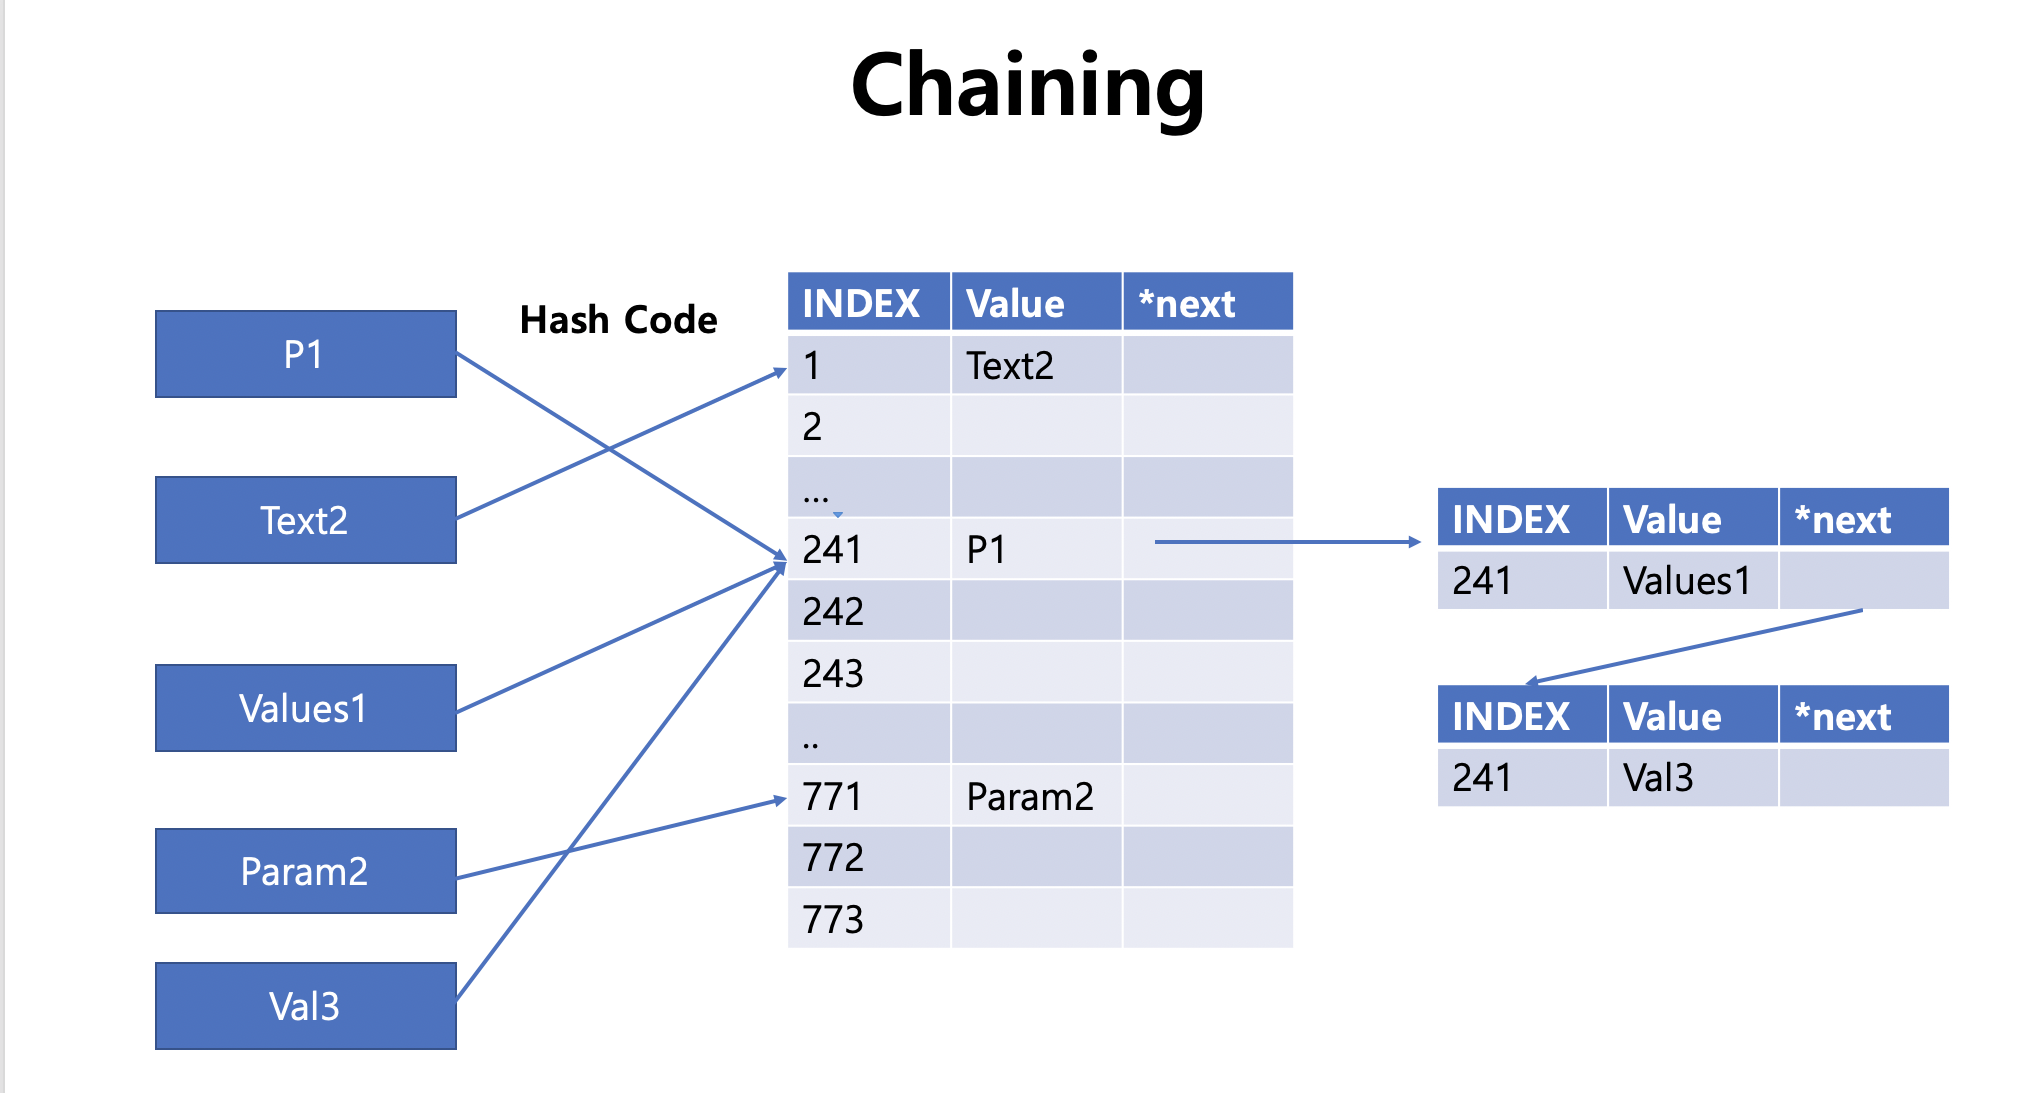
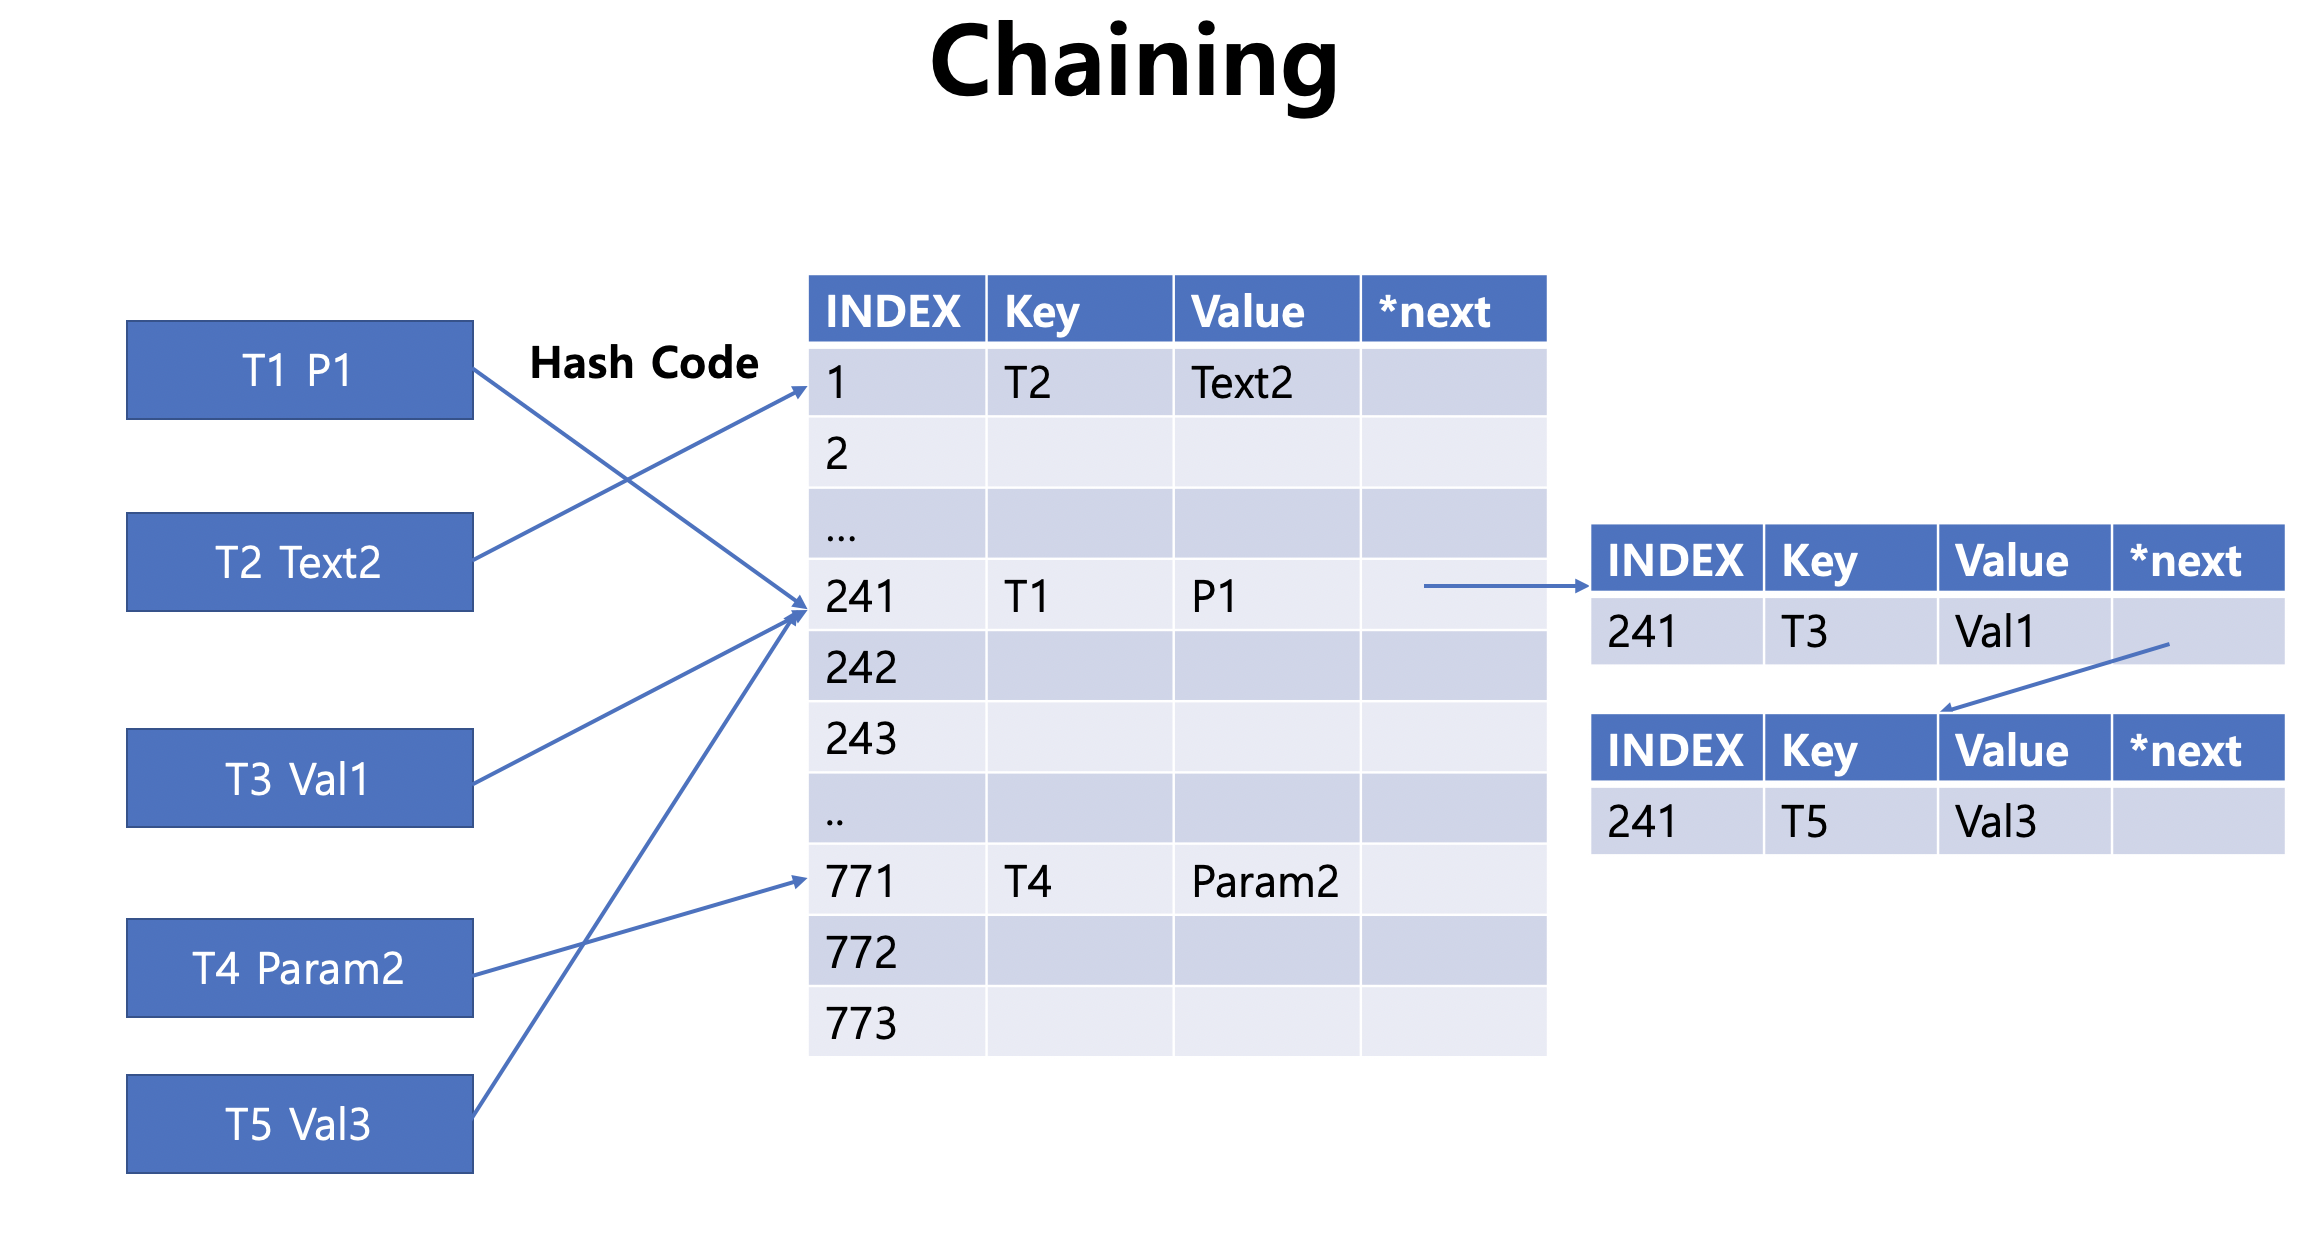
hash - open addressing

diff --git a/DataStructure/Container/Hash.md b/DataStructure/Container/Hash.md
@@ -14,13 +14,91 @@ sort: 8
 * Hash Table에서 충돌이 났을 때, 비어있는 Index로 이동하는 기법
 * 아래 예시는 충돌이 났을 때 +1을 했지만, 일반적으로 1,4,9와 같이 $$n^2$$ 이나 난수를 이용하여 충돌의 횟수를 줄임
 * 테이블의 크기는 충돌을 고려하여 전체 Key의 수보다 크게 설정
+* 연속적인 Mapping이 있으며 중간에서 삭제가 된 경우, 삭제에 의해서 검색이 안 되는건지 값이 없는 건지 확인하는 데 어려움이 있음
+  * Isdelete라는 멤버변수를 이용하여, 삭제가 된 경우와 뒤에 값이 없는 경우 구분
+
 
 ![Open_Addressing](./Img/Open_Addressing.png)
 
 **Code**
 
 ```c++
+template<typename T>
+class HashMap{
+    struct node {
+        bool isfill = false;
+        bool isdelete = false;
+        string key;
+        T value;
+    };
+    int size;
+    node* arr;
+public :
+    HashMap(int _size){
+        size = _size;
+        arr = (node*)malloc(sizeof(node)*_size);
+    }
+    ~HashMap(){
+        size = 0;
+        free(arr);
+    }
+    int hashcode(string _key){
+        int hash = 0;
+        for (int i = 0; i < _key.size(); i++) {
+            hash = (hash * 77 + 11 * _key[i]) % size;
+        }
+        return hash;
+    }
+    int get_address(int idx) {
+        idx++; // just + 1
+        if (idx == size) idx = 0;
+        return idx;
+    }
+    T get_value(string _key) {
+        int hash = hashcode(_key);
+        while((arr[hash].isfill && arr[hash].key != _key) || arr[hash].isdelete) {
+            hash = get_address(hash);
+        }
+        if (arr[hash].isfill && arr[hash].key == _key && !arr[hash].isdelete) return arr[hash].value;
+        return "Not Found Key";
+//        return -1;
+    }
+    void insert(string _key, T _value){
+        int hash = hashcode(_key);
+        while ((arr[hash].isfill && arr[hash].key != _key) || arr[hash].isdelete){
+            if (arr[hash].isfill && arr[hash].key == _key) {
+                arr[hash].value = _value;
+                return;
+            }
+            hash = get_address(hash);
+        }
+        arr[hash].isfill = true;
+        arr[hash].key = _key;
+        arr[hash].value = _value;
+        arr[hash].isdelete = false;
+    }
 
+    T remove(string _key){
+        int hash = hashcode(_key);
+        while ((arr[hash].isfill && arr[hash].key != _key) || arr[hash].isdelete)
+            hash = get_address(hash);
+        if (arr[hash].isfill && arr[hash].key == _key && !arr[hash].isdelete) {
+            T res = arr[hash].value;
+            arr[hash].isfill = false;
+            arr[hash].isdelete = true;
+            return res;
+        }            
+        return "Not Found Key";
+//        return -1;
+    }
+    void printall(){
+        for (int i=0; i<size;i++){
+            if (!arr[i].isfill || arr[i].isdelete) continue;
+            cout << arr[i].key << ":" << arr[i].value << " ";
+        }
+        cout << endl;
+    }
+};
 ```
 
 
@@ -37,10 +115,6 @@ sort: 8
 **Code**
 
 ```c++
-#include <iostream>
-#include <string>
-using namespace std;
-
 template<typename T>
 class HashMap{
     struct node {
@@ -49,7 +123,7 @@ class HashMap{
         T value;
         node* next = NULL;
     };
-    int size, idx;
+    int size;
     node* arr;
 public :
     HashMap(int _size){
@@ -57,17 +131,22 @@ public :
         arr = (node*)malloc(sizeof(node)*_size);
     }
     ~HashMap(){
+        for (int i=0;i<size;i++) {
+            if (arr[i].next) clear(arr[i].next);
+        }
         size = 0;
         free(arr);
     }
+    void clear(node* nodei) {
+        if (nodei->next) clear(nodei->next);
+        free(nodei);
+    }
+
     int hashcode(string _key){
         int hash = 0;
         for (int i = 0; i < _key.size(); i++) {
             hash = (hash * 77 + 11 * _key[i]) % size;
         }
-        cout << hash << endl;
-        hash = 0;
-        cout << _key << endl;
         return hash;
     }
     T get_value(string _key) {
@@ -91,14 +170,18 @@ public :
         else {
             node* cur = &arr[hash];
             while (cur->next) {
-                if (cur->key == _key){
-                    cur->value = _value;
+                if (cur->next->key == _key){
+                    cur->next->value = _value;
                     return;
                 }
                 cur = cur->next;
             }
+            if (cur->key == _key) {
+                cur->value = _value;
+                return;
+            }
             node* newnode = (node*)malloc(sizeof(node));
-            newnode->key=_key, newnode->value = _value, newnode->next = NULL;
+            newnode->key=_key, newnode->value = _value, newnode->next = NULL; newnode->isfill = true;
             cur->next = newnode;
             return;
         }
@@ -106,23 +189,21 @@ public :
     T remove(string _key){
         int hash = hashcode(_key);
         node *cur = &arr[hash];
-        while (cur->next)
-        {
-            if (cur->next->key == _key)
-            {
-                node* delnode = cur->next;
+        if (cur->key == _key) {
+            T res = cur->value;
+            if (cur->next) arr[hash] = *cur->next; // exist next node
+            else arr[hash].isfill = false; // only
+            return res;
+        }
+        while (cur->next){
+            if (cur->next->key == _key){
                 T res = cur->value;
+                node* delnode = cur->next;
                 cur->next = cur->next->next;
                 free(delnode);
                 return res;
             }
             cur = cur->next;
-        }
-        if (cur->key == _key){
-            T res = cur->value;
-            cur->isfill = false;
-            cur->key = "", cur->value = "";
-            return res;
         }
         return "Not Found Key";
 //        return -1;
@@ -132,14 +213,13 @@ public :
             if (!arr[i].isfill) continue;
             node* cur = &arr[i];
             while(cur){
-                cout << cur->value << " ";
+                cout << cur->key << ":" << cur->value << " ";
                 cur = cur->next;
             }
         }
         cout << endl;
     }
 };
-
 ```
 
 
